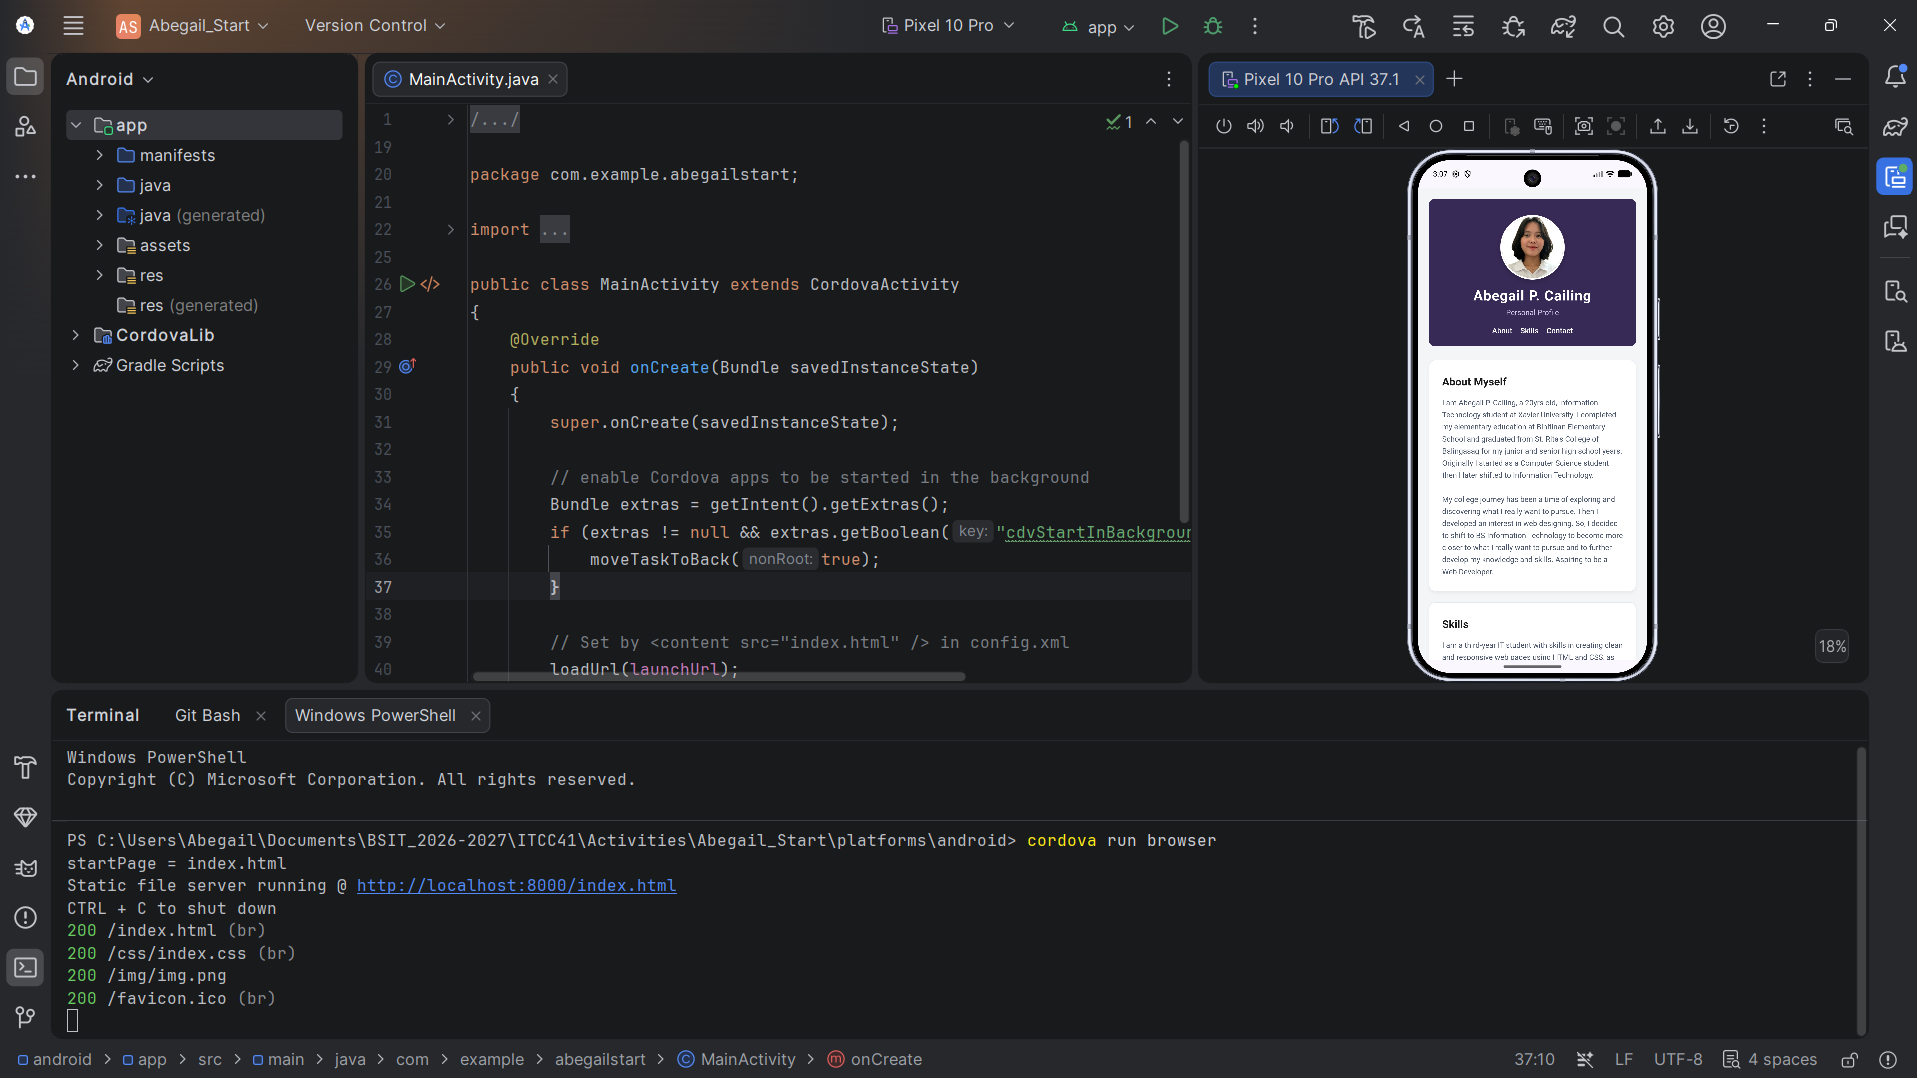
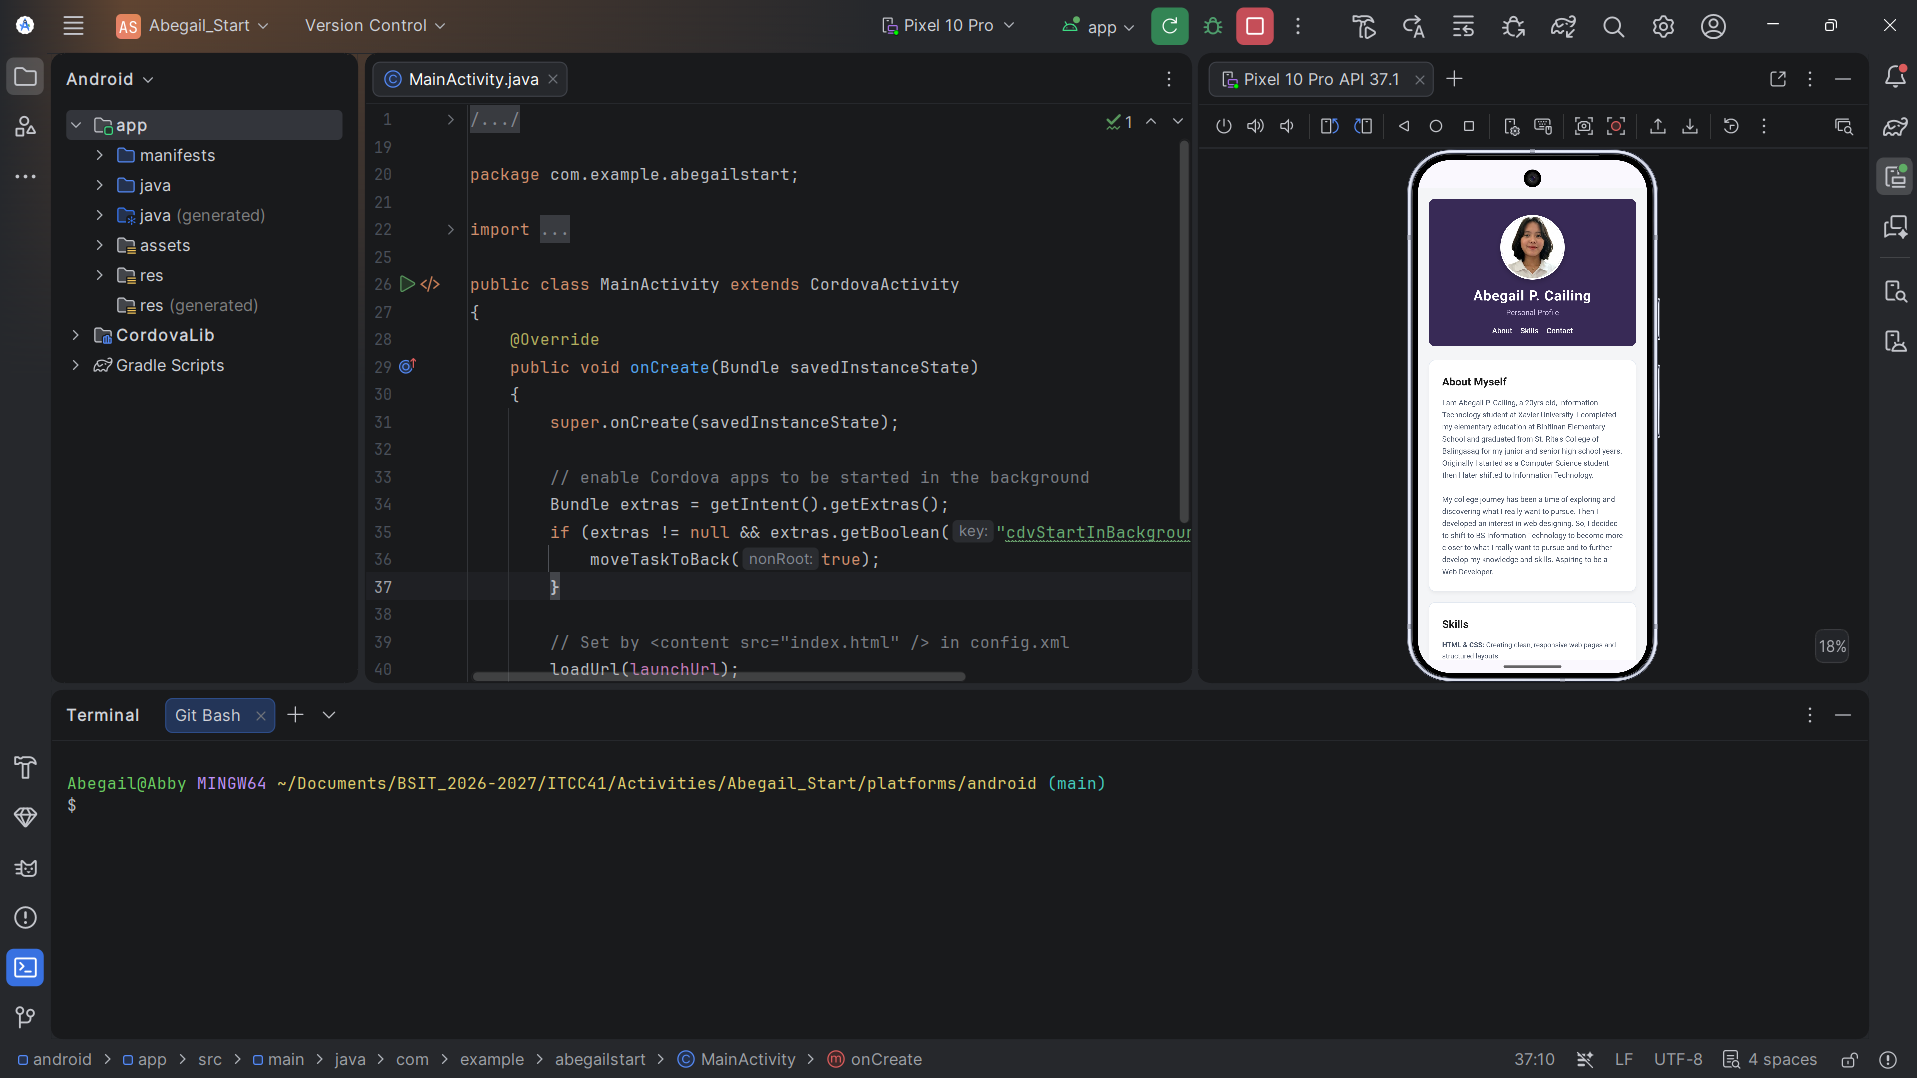
another update

diff --git a/www/index.html b/www/index.html
@@ -40,7 +40,13 @@
 
         <section id="skills" class="content-card">
             <h2 class="section-title">Skills</h2>
-            <p>I am a third-year IT student with skills in creating clean and responsive web pages using HTML and CSS, as well as managing data using relational databases and SQL. I can adapt to different technical tools and environments, such as coding in VS Code and PyCharm and simulating networks using Packet Tracer. I consider adaptability one of my strengths because I can quickly learn new technologies and adjust to different project requirements. I also manage my time well by balancing my coursework, completing projects on time, and as a person that has life outside academics.</p>
+            <ul class="sidebar-list" style="display: flex; flex-direction: column; gap: 12px;">
+                <li><strong>HTML & CSS:</strong> Creating clean, responsive web pages and structured layouts.</li>
+                <li><strong>SQL & Databases:</strong> Managing data efficiently using relational databases.</li>
+                <li><strong>Development Tools:</strong> Coding and debugging in VS Code, PyCharm, and Packet Tracer.</li>
+                <li><strong>Adaptability:</strong> Learning new technologies quickly and adjusting to different project requirements.</li>
+                <li><strong>Time Management & Adaptability:</strong> Balancing coursework, meeting deadlines, and quickly learning new technologies.</li>
+            </ul>
         </section>
     </main>
 

diff --git a/www/css/index.css b/www/css/index.css
@@ -9,6 +9,7 @@ body {
   background: #f4f5f7;
   color: #333;
   padding: 20px;
+  min-height: 100vh;
 }
 
 html {
@@ -28,6 +29,7 @@ header {
   padding: 30px 20px 20px;
   border-radius: 12px;
   margin-bottom: 25px;
+  width: 100%;
 }
 
 .profile-frame {
@@ -77,12 +79,12 @@ nav a:hover {
   text-decoration: underline;
 }
 
-/* LAYOUT & CARDS */
 .container {
-  max-width: 1000px;
+  width: 100%;
+  max-width: 1400px;
   margin: 0 auto;
   display: grid;
-  grid-template-columns: 2fr 1fr;
+  grid-template-columns: 2.5fr 1fr;
   gap: 20px;
 }
 
@@ -109,7 +111,6 @@ main, aside {
   color: #4a5568;
 }
 
-/* SIDEBAR & FORM STYLING */
 .sidebar-widget {
   background: #fff;
   border-radius: 12px;
@@ -136,8 +137,8 @@ main, aside {
 .form-subtitle {
   font-size: 13px;
   color: #666;
-  margin-top: 18px !important;
-  margin-bottom: 12px !important;
+  margin-top: 18px
+  margin-bottom: 12px
   font-style: italic;
   display: block;
 }
@@ -174,6 +175,6 @@ footer {
   padding-top: 15px;
 }
 
-@media (max-width: 768px) {
+@media (max-width: 900px) {
   .container { grid-template-columns: 1fr; }
 }
